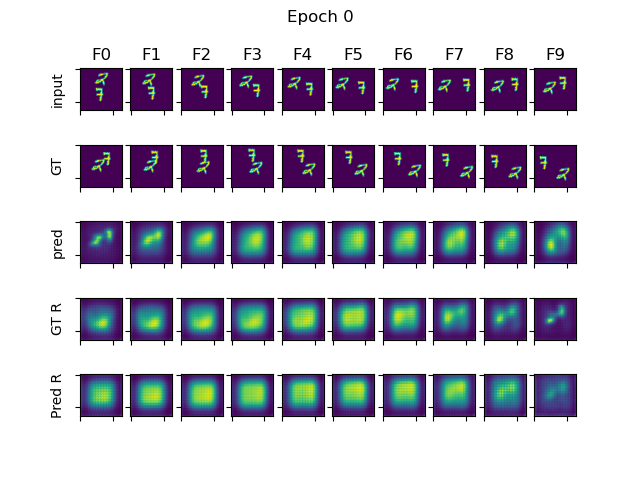
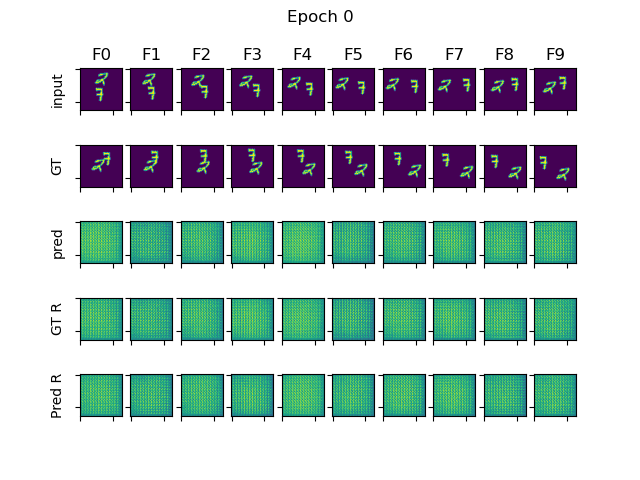
simvp mean skip

Changed region(s): [[0.125, 0.4375, 0.9062, 0.5625], [0.125, 0.7812, 0.9062, 0.875], [0.125, 0.625, 0.9062, 0.7188]]

diff --git a/gan/models/acocycle/simvp/model.py b/gan/models/acocycle/simvp/model.py
@@ -38,15 +38,15 @@ class Decoder(nn.Module):
         super(Decoder, self).__init__()
         strides = stride_generator(N_S, reverse=True)
         self.dec = nn.Sequential(
-            ConvSC(C_hid * 2, C_hid, stride=strides[0], transpose=True),
+            ConvSC(C_hid * 3, C_hid, stride=strides[0], transpose=True),
             *[ConvSC(C_hid, C_hid, stride=s, transpose=True) for s in strides[1:-1]],
             ConvSC(C_hid, C_hid, stride=strides[-1], transpose=True)
         )
         self.readout = nn.Conv2d(C_hid, C_out, 1)
 
-    def forward(self, hid, enc1=None):
+    def forward(self, hid, enc1=None, skip=None):
         # ipdb.set_trace()
-        hid = torch.cat([hid, enc1], dim=1)
+        hid = torch.cat([hid, enc1, skip], dim=1)
         for i in range(0, len(self.dec)):
             hid = self.dec[i](hid)
         # Y = self.dec[-1](torch.cat([hid, enc1], dim=1))
@@ -131,7 +131,7 @@ class Mid_Xnet(nn.Module):
             z = self.enc[i](z)
             if i < self.N_T - 1:
                 skips.append(z)
-
+    
         # decoder
         z = self.dec[0](z)
         for i in range(1, self.N_T):
@@ -185,11 +185,13 @@ class SimVP(nn.Module):
         # hid = self.hid(z)
         hid = self.hid(z)
 
+        skip_mean = hid.mean(dim=1)
+
         outs = []
         embed = self.enc.skip(x_raw[:, -1 if future else 0, ...])
         if future:
             for i in range(T):
-                out = self.dec(hid[:, i, :, :, :], embed)
+                out = self.dec(hid[:, i, :, :, :], embed, skip_mean)
                 outs.append(out)
                 # ipdb.set_trace()
                 z = torch.cat([x[:B, 1:, ...], out], 1)
@@ -198,7 +200,7 @@ class SimVP(nn.Module):
                 embed = self.enc.skip(z)
         else:
             for i in range(T - 1, -1, -1):
-                out = self.dec(hid[:, i, :, :, :], embed)
+                out = self.dec(hid[:, i, :, :, :], embed, skip_mean)
                 # outs.insert(0, out)
                 outs.append(out)
                 z = torch.cat([x[:B, 1:, ...], out], 1)
